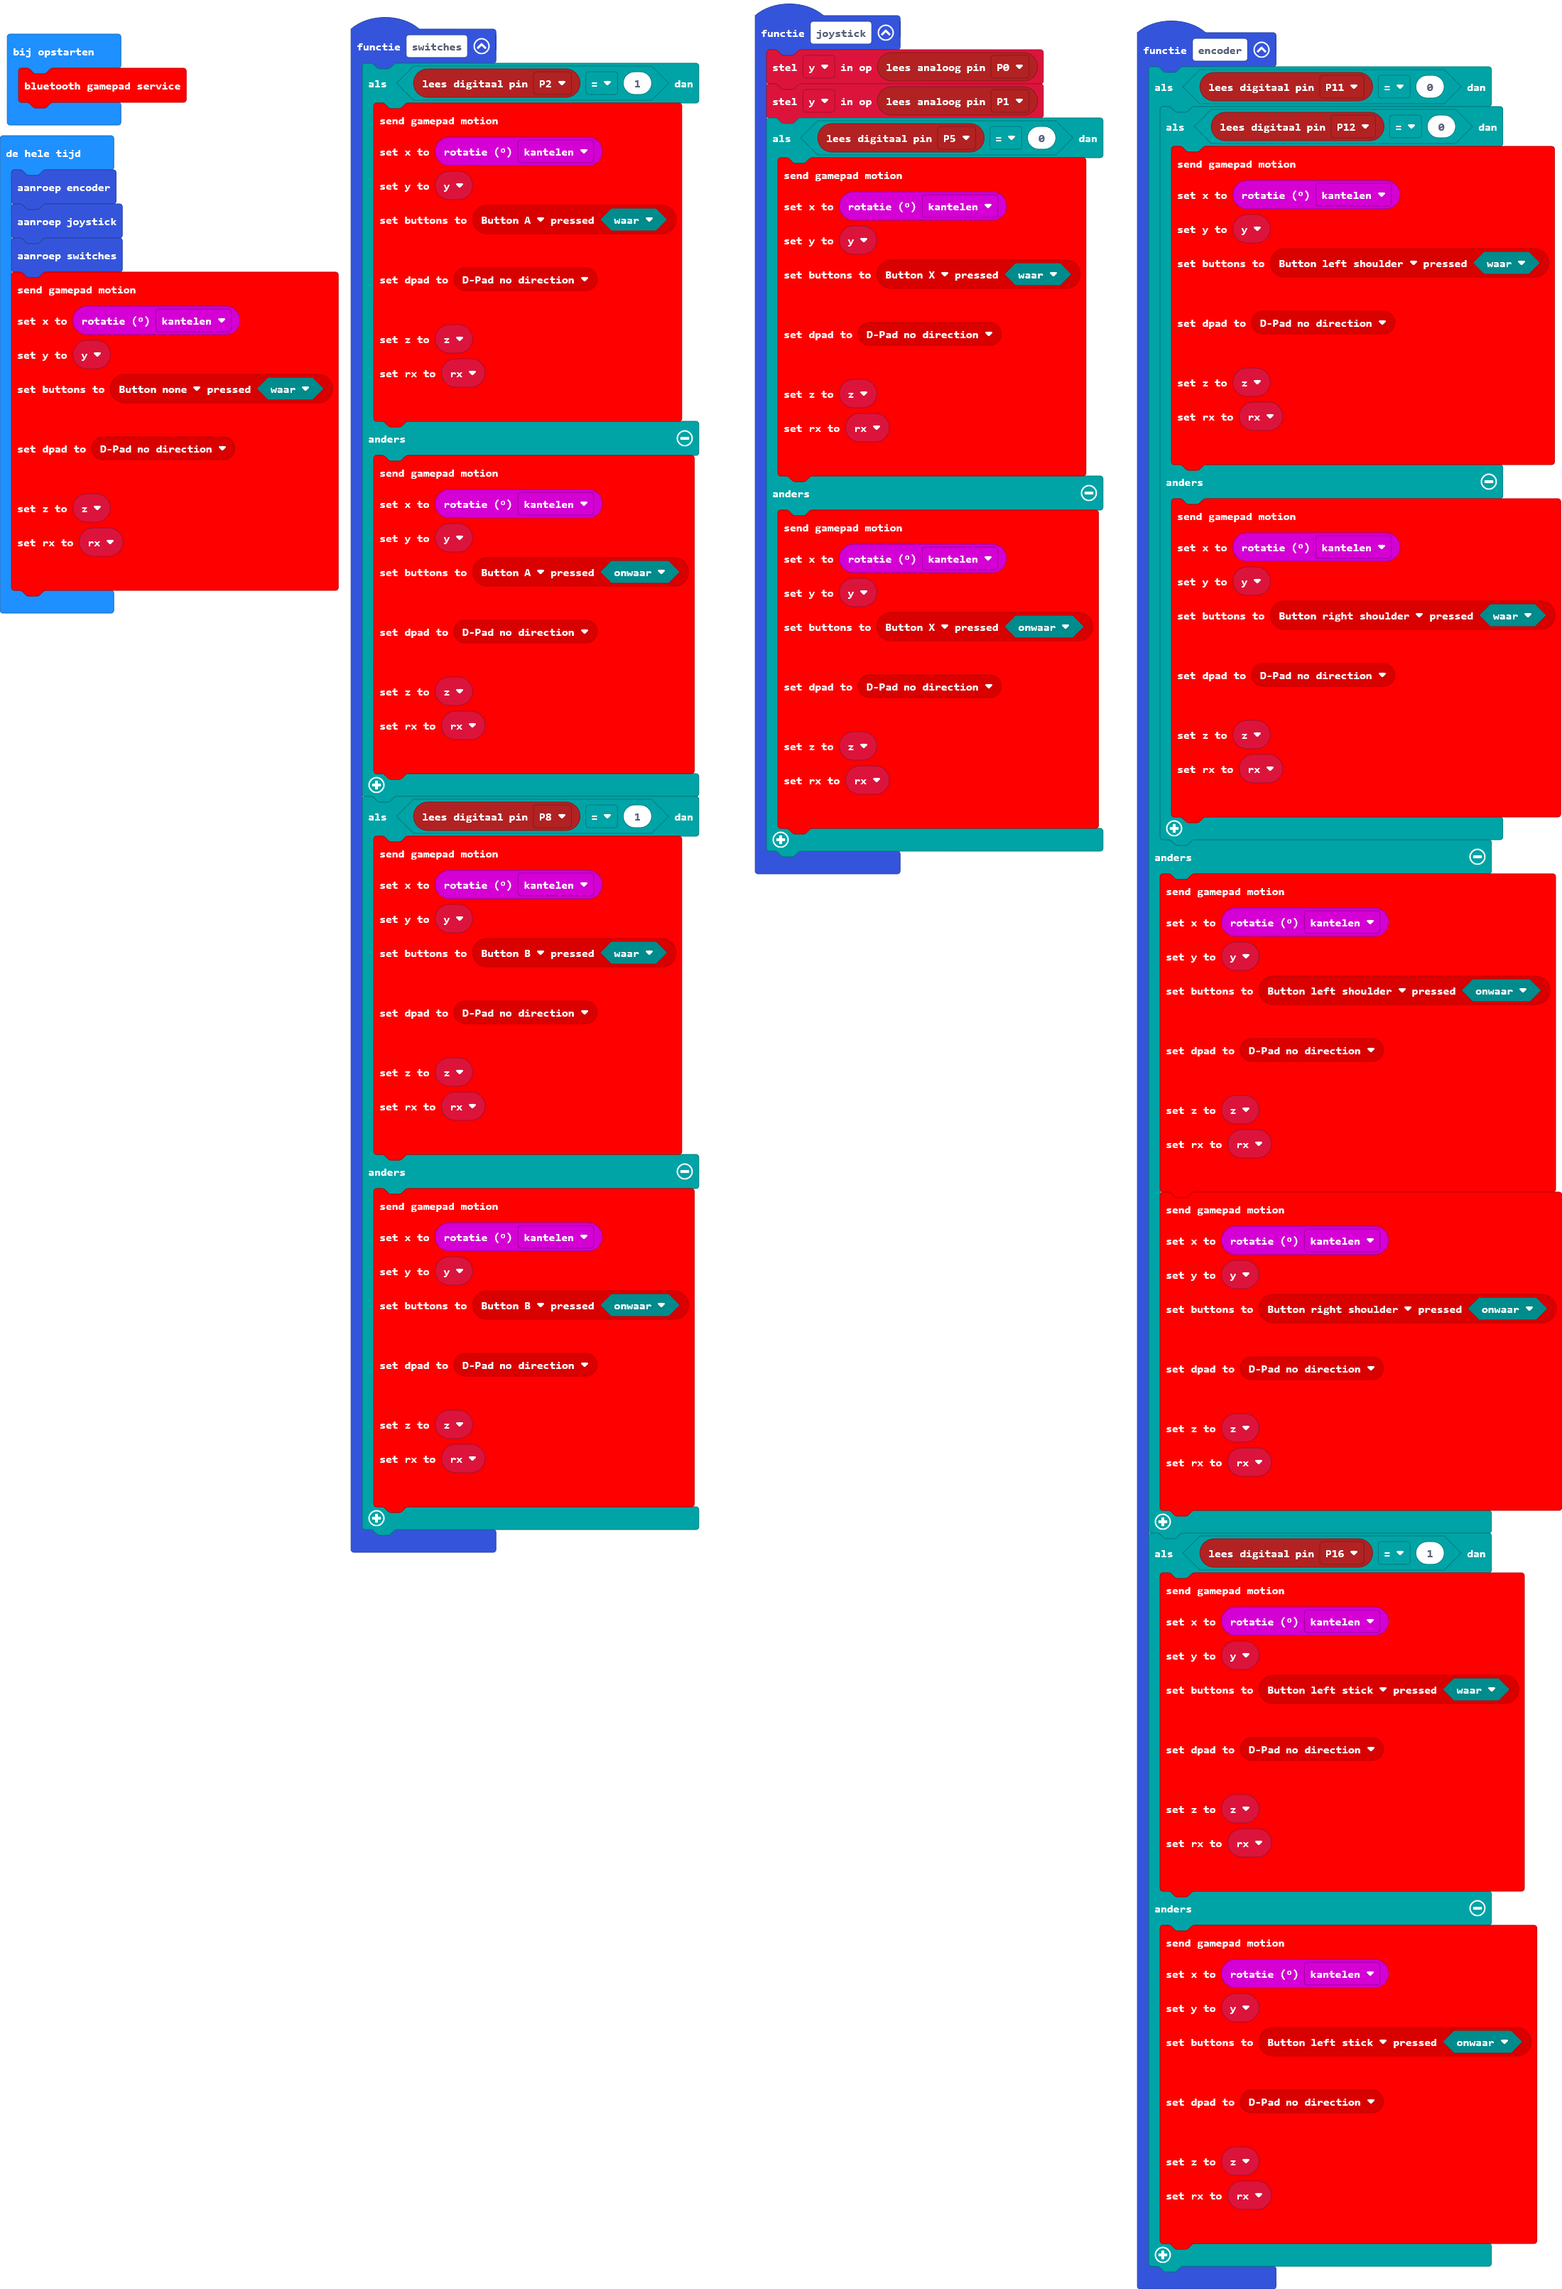
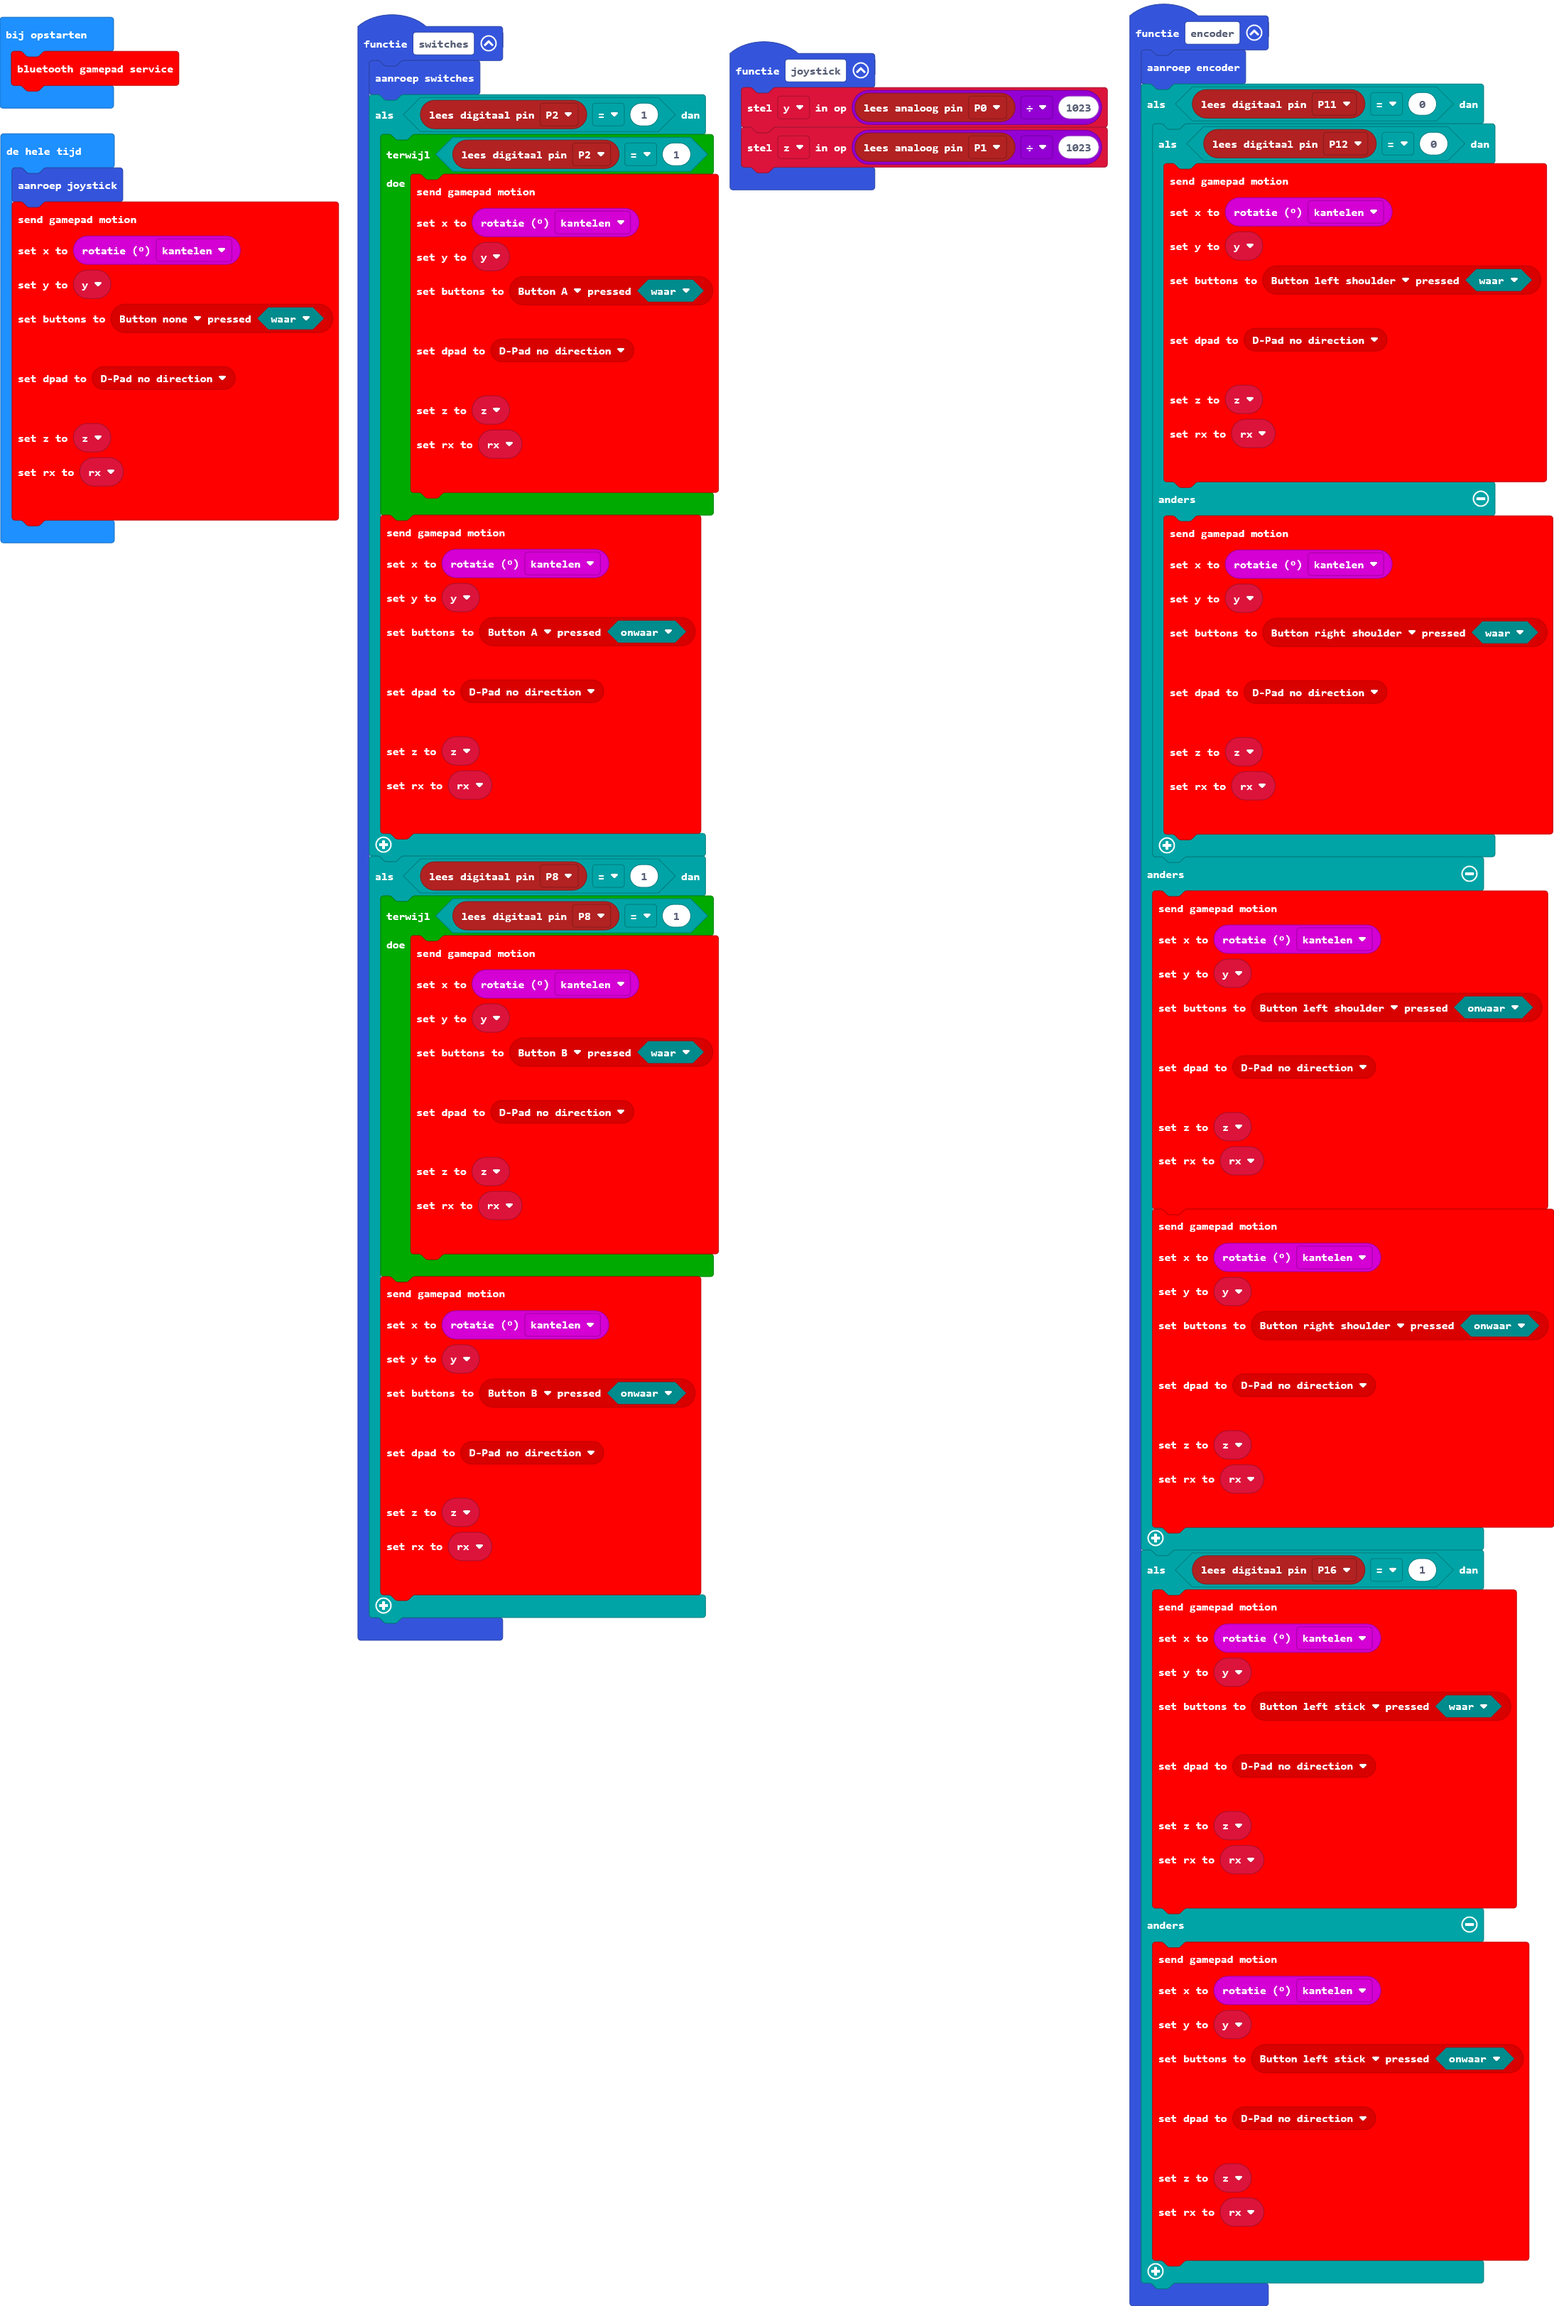
main.blocks, main.ts, main.py bijwerken

diff --git a/main.ts b/main.ts
@@ -1,37 +1,20 @@
 function joystick () {
-    y = pins.analogReadPin(AnalogPin.P0)
-    y = pins.analogReadPin(AnalogPin.P1)
-    if (pins.digitalReadPin(DigitalPin.P5) == 0) {
-        gamepad.send(
-        gamepad._buttons(GameButton.X, true),
-        input.rotation(Rotation.Pitch),
-        y,
-        gamepad._dpad(GameDirection.noDirection),
-        z,
-        rx
-        )
-    } else {
-        gamepad.send(
-        gamepad._buttons(GameButton.X, false),
-        input.rotation(Rotation.Pitch),
-        y,
-        gamepad._dpad(GameDirection.noDirection),
-        z,
-        rx
-        )
-    }
+    y = pins.analogReadPin(AnalogPin.P0) / 1023
+    z = pins.analogReadPin(AnalogPin.P1) / 1023
 }
 function switches () {
+    switches()
     if (pins.digitalReadPin(DigitalPin.P2) == 1) {
-        gamepad.send(
-        gamepad._buttons(GameButton.A, true),
-        input.rotation(Rotation.Pitch),
-        y,
-        gamepad._dpad(GameDirection.noDirection),
-        z,
-        rx
-        )
-    } else {
+        while (pins.digitalReadPin(DigitalPin.P2) == 1) {
+            gamepad.send(
+            gamepad._buttons(GameButton.A, true),
+            input.rotation(Rotation.Pitch),
+            y,
+            gamepad._dpad(GameDirection.noDirection),
+            z,
+            rx
+            )
+        }
         gamepad.send(
         gamepad._buttons(GameButton.A, false),
         input.rotation(Rotation.Pitch),
@@ -42,15 +25,16 @@ function switches () {
         )
     }
     if (pins.digitalReadPin(DigitalPin.P8) == 1) {
-        gamepad.send(
-        gamepad._buttons(GameButton.B, true),
-        input.rotation(Rotation.Pitch),
-        y,
-        gamepad._dpad(GameDirection.noDirection),
-        z,
-        rx
-        )
-    } else {
+        while (pins.digitalReadPin(DigitalPin.P8) == 1) {
+            gamepad.send(
+            gamepad._buttons(GameButton.B, true),
+            input.rotation(Rotation.Pitch),
+            y,
+            gamepad._dpad(GameDirection.noDirection),
+            z,
+            rx
+            )
+        }
         gamepad.send(
         gamepad._buttons(GameButton.B, false),
         input.rotation(Rotation.Pitch),
@@ -62,6 +46,7 @@ function switches () {
     }
 }
 function encoder () {
+    encoder()
     if (pins.digitalReadPin(DigitalPin.P11) == 0) {
         if (pins.digitalReadPin(DigitalPin.P12) == 0) {
             gamepad.send(
@@ -125,9 +110,7 @@ let z = 0
 let y = 0
 gamepad.startGamepadService()
 basic.forever(function () {
-    encoder()
     joystick()
-    switches()
     gamepad.send(
     gamepad._buttons(GameButton.none, true),
     input.rotation(Rotation.Pitch),

diff --git a/main.py b/main.py
@@ -1,30 +1,17 @@
 def joystick():
-    global y
-    y = pins.analog_read_pin(AnalogPin.P0)
-    y = pins.analog_read_pin(AnalogPin.P1)
-    if pins.digital_read_pin(DigitalPin.P5) == 0:
-        gamepad.send(gamepad._buttons(GameButton.X, True),
-            input.rotation(Rotation.PITCH),
-            y,
-            gamepad._dpad(GameDirection.NO_DIRECTION),
-            z,
-            rx)
-    else:
-        gamepad.send(gamepad._buttons(GameButton.X, False),
-            input.rotation(Rotation.PITCH),
-            y,
-            gamepad._dpad(GameDirection.NO_DIRECTION),
-            z,
-            rx)
+    global y, z
+    y = pins.analog_read_pin(AnalogPin.P0) / 1023
+    z = pins.analog_read_pin(AnalogPin.P1) / 1023
 def switches():
+    switches()
     if pins.digital_read_pin(DigitalPin.P2) == 1:
-        gamepad.send(gamepad._buttons(GameButton.A, True),
-            input.rotation(Rotation.PITCH),
-            y,
-            gamepad._dpad(GameDirection.NO_DIRECTION),
-            z,
-            rx)
-    else:
+        while pins.digital_read_pin(DigitalPin.P2) == 1:
+            gamepad.send(gamepad._buttons(GameButton.A, True),
+                input.rotation(Rotation.PITCH),
+                y,
+                gamepad._dpad(GameDirection.NO_DIRECTION),
+                z,
+                rx)
         gamepad.send(gamepad._buttons(GameButton.A, False),
             input.rotation(Rotation.PITCH),
             y,
@@ -32,13 +19,13 @@ def switches():
             z,
             rx)
     if pins.digital_read_pin(DigitalPin.P8) == 1:
-        gamepad.send(gamepad._buttons(GameButton.B, True),
-            input.rotation(Rotation.PITCH),
-            y,
-            gamepad._dpad(GameDirection.NO_DIRECTION),
-            z,
-            rx)
-    else:
+        while pins.digital_read_pin(DigitalPin.P8) == 1:
+            gamepad.send(gamepad._buttons(GameButton.B, True),
+                input.rotation(Rotation.PITCH),
+                y,
+                gamepad._dpad(GameDirection.NO_DIRECTION),
+                z,
+                rx)
         gamepad.send(gamepad._buttons(GameButton.B, False),
             input.rotation(Rotation.PITCH),
             y,
@@ -46,6 +33,7 @@ def switches():
             z,
             rx)
 def encoder():
+    encoder()
     if pins.digital_read_pin(DigitalPin.P11) == 0:
         if pins.digital_read_pin(DigitalPin.P12) == 0:
             gamepad.send(gamepad._buttons(GameButton.LEFT_SHOULDER, True),
@@ -94,9 +82,7 @@ y = 0
 gamepad.start_gamepad_service()
 
 def on_forever():
-    encoder()
     joystick()
-    switches()
     gamepad.send(gamepad._buttons(GameButton.NONE, True),
         input.rotation(Rotation.PITCH),
         y,
